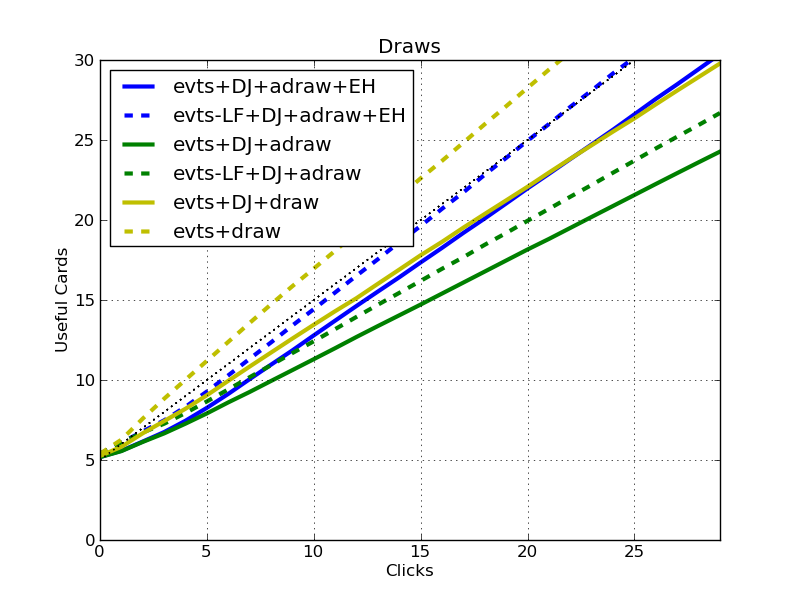
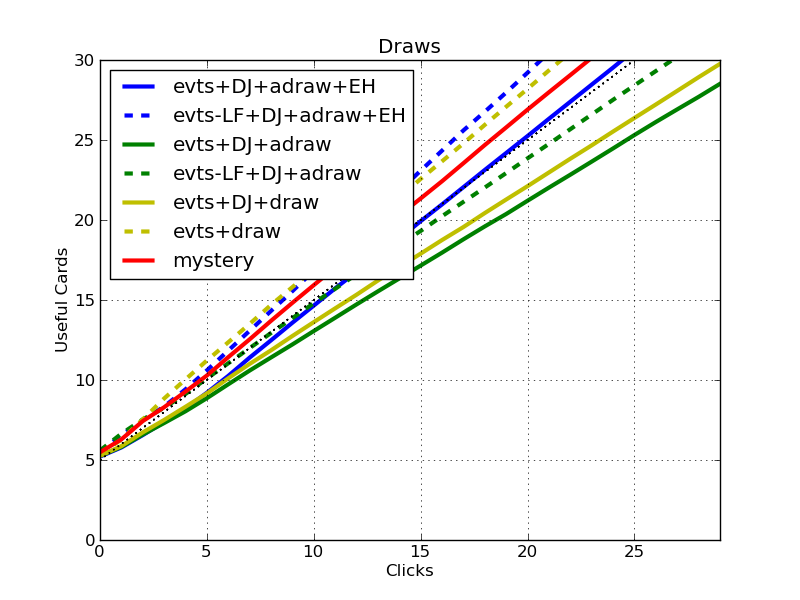
article 3: first draft

diff --git a/03_anarch_econ/article.md b/03_anarch_econ/article.md
@@ -2,11 +2,13 @@
 
 Order and Chaos is going to change things.  Anarch econs are *strong*.  The following are the efficiency changes versus a traditional economic package of Dirty Laundry, Sure Gamble, Lucky Find, Diesel, and Quality Time.  
 
-Economy | Credits/click | Quality draws/click 
---------|---------------|--------------------
-SG+DL+LF+DJ+SS+INJ | +0.5 | -0.4
-SG+DL+DJ+SS+INJ | |
-SG+DL+DJ+SS+INJ+PVP | |
+Economy | Credits/click | Quality draws/click | Compared to
+--------|---------------|---------------------|------------
+SG+DL+LF+DJ+SS+INJ | +0.5 | -0.4 | Shaper Events: SG+DL+LF+Diesel+QT
+SG+DL+DJ+SS+INJ | +0.2 | -0.3 | Shaper Events
+SG+DL+LF+DJ+SS+INJ+PVP | +0.3 | -0.3 | Prepaid Kate Events
+
+Anarchs are getting an economic engine that rivals powerful current economic engines.  Can they pay the decrease in draw, and the tempo hit of having a Day Job?
 
 - SG = Sure Gamble
 - DL = Dirty Laundry
@@ -15,8 +17,85 @@ SG+DL+DJ+SS+INJ+PVP | |
 - SS = Steelskin
 - INJ = Inject
 - PVP = Prepaid Voice Pad
+- QT = Quality Time
 
 ## *Abstract*
 
 With the new card draw in the form of Steelskin and Inject, and a new event for credit generation in Day Job, the Anarchs are looking to cast off their traditional weaknesses: draw and economy.  Does this add up to an economic powerhouse, or does it track the Anarch history of lagging behind?
 
+Quoting from the first article, this article `looks at the **resource click efficiency of gaining both credits and quality draws** for various economic packages`.  If this doesn't make sense, please check out the first article.
+
+## A Warning
+
+When reading this article, you have to be particularly aware of the weaknesses of the simulation.  A large downside to Day Job is the four click cost.  Though I'm often happy to "click for eight" with Opus, I'm not sure Anarchs should be quite as willing to do the same.  Additionally, we'll see that Inject is a crazy card.  From an economic standpoint, it is.  You draw efficiently, or you get money.  When you get money, it is "free" from an economic perspective in the sense that you aren't discarding any of your econ cards (they're all hardware - PVP - and events).  For an event economy, and from the perspective of drawing and getting credits, Inject is insane.  However, this analysis ignores the realistic downsides to discarding the programs.
+
+Long story short, please be wary when reading this.  Understand that we are assessing the economic potential of the new Anarch econs.  However, they are anarchistic, and their downsides are difficult to analyze here.  As always, use this as one of the many sources of information you use when assessing how good cards are for your deck.
+
+## The New Anarch Economies
+
+Four cards will have a significant impact on Anarch economies (credits *and* draw) come Order and Chaos (O&C).
+
+- Inject (INJ)
+- Steelskin (SS)
+- Day Job (DJ)
+- Earthrise Hotel (EH)
+
+These paired with the existing event economies can be quite powerful.  Existing cards include:
+
+- Sure Gamble (SG)
+- Dirty Laundry (DL)
+- Lucky Find (LF)
+
+We have invested in previous articles the difficult trade-off that each economic engine makes when trading credit efficiency for draw efficiency.  Day Job is a perfect example of this.  The clicks spent doing Day Job are quite efficient in terms of credits.  However, they are clicks that provided zero draw.  Diesel is the opposite.  Inject is bonkers because it is both.
+
+In the following graphs, the Red line is a mystery line.  It is an economy that makes a decent trade between credit and quality draw efficiency.
+
+Lets look at some combinations of these cards and compare them to traditional event economies.  In the following graphs, the old economic engines are in Yellow.  
+
+- **evts** = SG+DL+LF
+- **draw** = QT+Diesel
+- **adraw** = SS+INJ
+
+First credit generation:
+
+<center><img src="anarchecon/mean0.png" width=500px></center>
+
+Second, focus on click efficiency for credits:
+
+<center><img src="anarchecon/mean1.png" width=500px></center>
+
+Third, draw efficiency:
+
+<center><img src="anarchecon/qdraw1.png" width=500px></center>
+
+*Discussion.*
+
+- The solid Green and solid Yellow lines are telling an interesting story.  The economic packages are the same, except that the draw uses Anarch cards, instead of shaper cards.  Inject does work.  It alone makes the anarch economies yield 0.1 credit per click more!  However, as Steelskin is not quality draw compared to Quality Time, the draw efficiency takes a 0.15 quality draw/click hit.
+- Earthrise Hotel helps with this issue to some degree by further increasing credit efficiency, and also helping draws.  It might be reasonable to replace EH with QT if you have the influence, but there is a hidden advantage to a cost of four credits:  If the credits/click efficiency of the deck is high, those four credits are cheaper in terms of clicks.  We see this, as the stronger credit economy (with LF) gets more of a benefit from EH.
+- The Blue dotted line and Yellow also tell an interesting story.  Their credit click efficiency, and quality draw efficiency are quite similar.  The only downside to the anarch version is the credit hit at the beginning for not having LF in the deck.  An anarch econ that is *influence-free* based on SG, DL, DJ, SS, INJ, and EH is competitive with an already powerful economic engine further augmented with DJ (note, that package in shaper would be 9 influence!).
+- Throwing all the tricks in, we have an anarch economy that can gain more than 1.3 credits per click, with the downside of only getting ~0.5 quality draws per click.
+
+## Add Prepaid, get Efficiency
+
+Now lets add Prepaid Voice Pads (PVP) into the mix.  We know that Prepaid Kate is amazing.  How does she compare to these Anarch economies?
+
+First credit generation:
+
+<center><img src="anarchpvp/mean0.png" width=500px></center>
+
+Second, focus on click efficiency for credits:
+
+<center><img src="anarchpvp/mean1.png" width=500px></center>
+
+Third, draw efficiency:
+
+<center><img src="anarchpvp/qdraw1.png" width=500px></center>
+
+**Discussion.**
+
+- As it turns out, you throw PVP in with a bunch of events, and out pops some pretty amazing economic engines.  The efficiency of the blue line is truly amazing for credit generation, topping out at 1.7 credits per click.  Unfortunately, we can see that the draw is pretty weak, floating around 0.35 quality draws per click.  Note that this is getting to be due to the fact that there are so many econ cards in the deck, that it is hard to find a quality draw.
+- The economic package that uses EH for draw, but drops LF actually does pretty great.  It is a little slower to get going, but is competitive with the PVP Kate (+DJ) economy.  That's quite an about-face for Anarch that now have a brilliant *influence-free* package that yields fantastic credit, and good quality draw potential.
+
+## What's the Mystery Econ Package?
+
+Heavy influence:  LF + SG + DJ + SS + INJ + QT.  We drop the Dirty Laundries to increase the quality draw, and import Quality Time to also increase draw, and synergies well with the PVPs.
